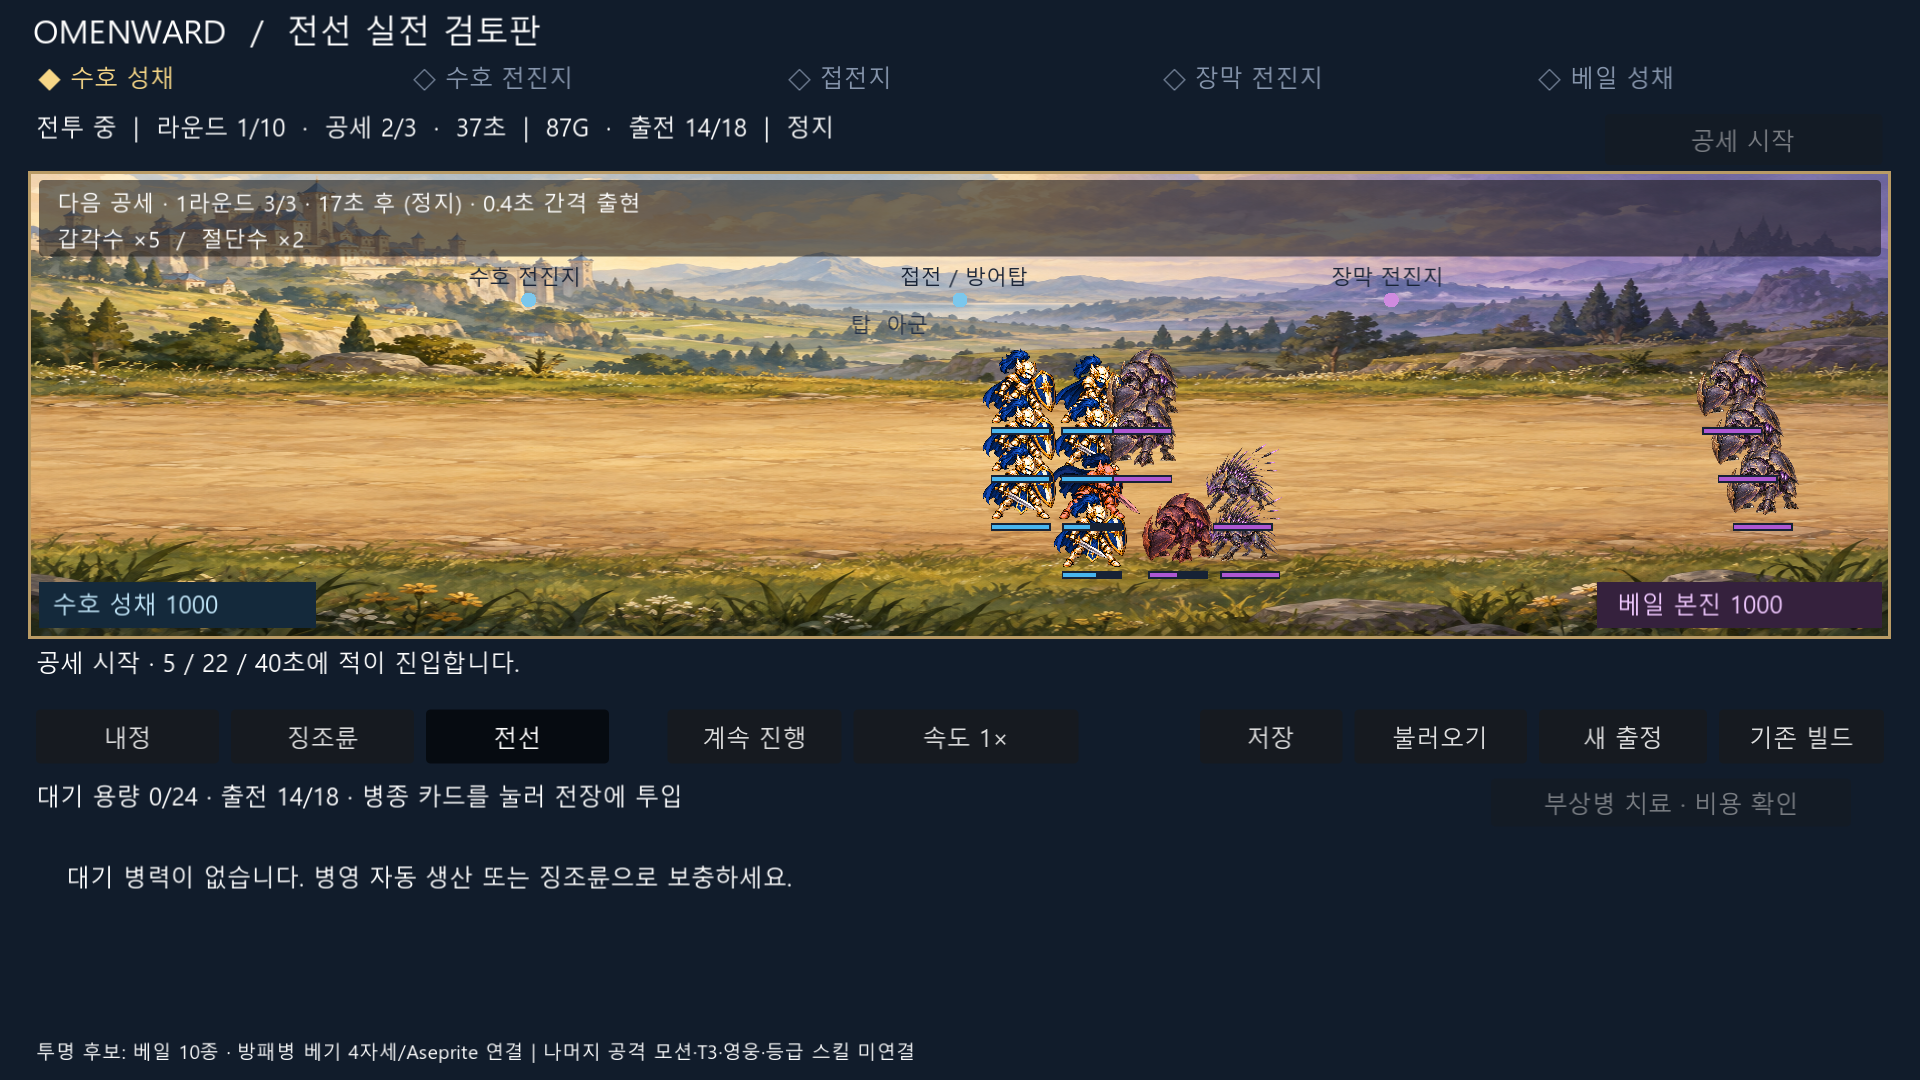
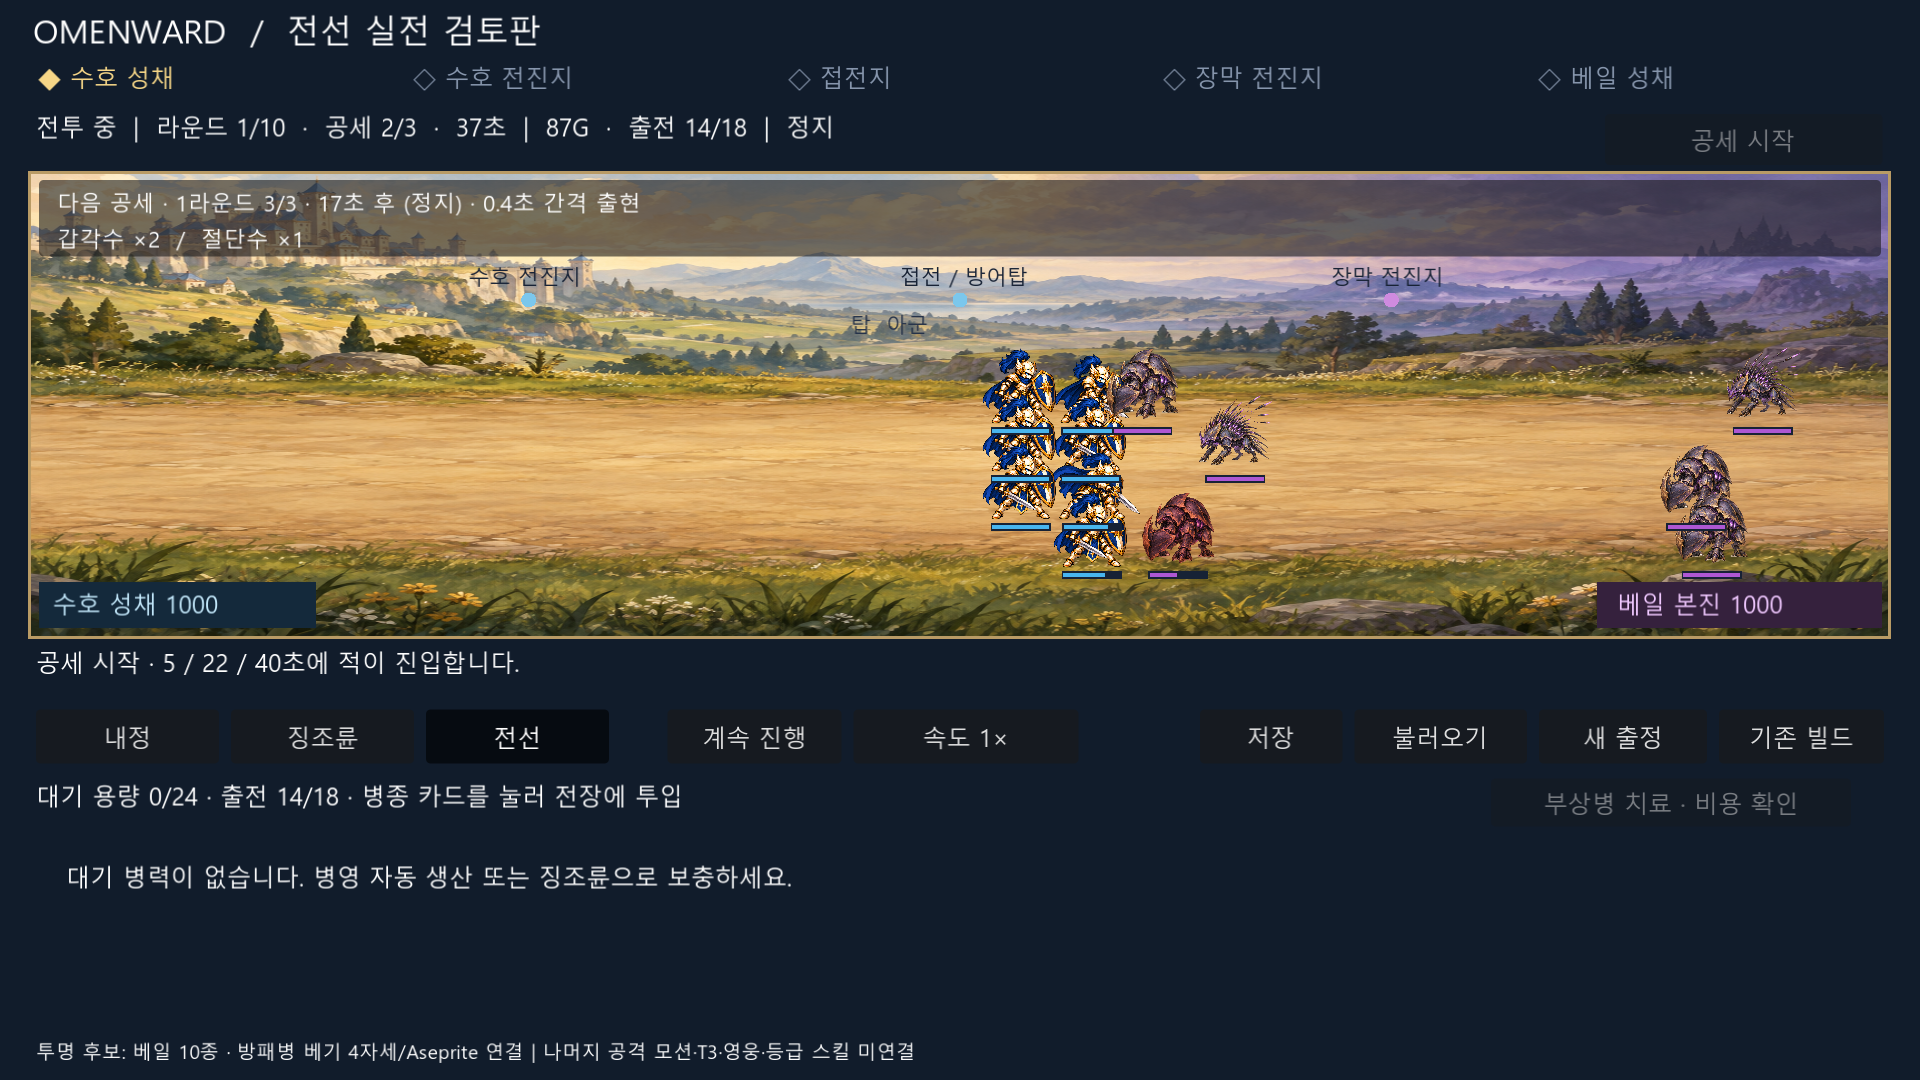
Implement frontline role counters and versioned first-map pressure

Changed region(s): [[0.8438, 0.3056, 0.9375, 0.55], [0.5312, 0.3667, 0.6875, 0.55]]

diff --git a/docs/superpowers/plans/2026-09-11-visible-battle-slice.md b/docs/superpowers/plans/2026-09-11-visible-battle-slice.md
@@ -1,5 +1,19 @@
 # Visible battle and construction implementation plan
 
+## First-map pressure experiment and provisional adoption
+
+After role connections, compare unchanged starting resources across four scripted policies/three seeds, then pressure0.4/0.5/0.6/0.8. Baseline1.0:12 losses. Pressure0.4 paid mobilization:3 seeds win round2 by citadel capture; other6 tested runs lose rounds3–4. Pressure0.5:8 losses. Adopt catalog first map0.4 provisionally, not final balance; other maps unchanged. Persist run pressure with savev4; v1–v3 migrate1.0. Regression covers v3 staggered composition, v4 JSON roundtrip and invalid/missing pressure atomic rejection. Existing PDF predates tune. Cavalry role multiplier currently targets unit combat, not structure damage; siege multiplier remains giant-specific. Five-view independent review corrected partial charge accumulation across interrupted advances; no other blocking findings. Strategic diversity remains unverified.
+
+## Follow-on cavalry / spear counter
+
+Existing blueprint defines cavalry2distance continuous advance then first hit1.5x and spear stationary0.6s halves charge damage. Implement as paired roles, not isolated cavalry buff. Reuse _tick/_hit/unit snapshot; movement accumulates charge capped2 for cavalry, stationary brace capped0.6 for spear, movement clears brace, attack consumes charge. No added manual command/art. Both factions. Optional per-unit charge/brace fields default0 for old saves, strict finite bounded validation before restore. UI keeps base stats plus implemented capability. RED charge versus ordinary target, uncharged normal hit, braced spear50%, unbraced spear normal, real movement/stop/save continuations; GREEN local+GPU+review. Numeric base stats unchanged. AOE official unit-counter benchmark reused, role mechanics from project not copied.
+
+## 2026-09-13 shield role connection
+
+Bounded existing combat completion, user explicitly delegates technical decisions without repeated approvals. Source: Blueprint build input shield row, frontal ranged25% defense stance. Definition: automatic stance when live shield has a live enemy within its melee reach (therefore holds position); forward is +x Ward/-x Veil. Only archer physical shots reduced, not magic/melee/rear attacks. Derived state avoids new save fields, applies to both factions' shield equivalents. No base HP/damage/production tuning.
+
+Benchmark https://www.ageofempires.com/learn-to-play/military-and-economy-aoe2/ differentiates arrow-resistant frontliners from generic HP; ADAPT role-specific counter, REJECT importing its numeric armor system. Alternatives: global shield HP buff (reject blurs weaknesses), always-on ranged reduction (reject removes stance), derived engaged stance (selected fits auto-combat and existing25% spec). REUSE _hit and tooltip; no new art/toolkit. RED frontal25%, rear/magic/unengaged unaffected, symmetry; GREEN model/UI/default/GPU and independent review, then multi-seed policy diagnostics. Existing front_run/front_screen/test scope only.
+
 ## Follow-on: wave data parity
 
 Final109 checks add full-state midwave comparison (absolute1e-9 floating tolerance, exact categorical/RNG strings) and v3 legacy resave. Five-perspective independent static review found no blocker. Exact JSON text initially differed by int/float representation and ~3e-15 timer rounding; no production quantization introduced to hide this. Scope5PASS, project-scoped PASS / Base raw protected-path FAIL retained.

diff --git a/docs/ACTIVE_CONTEXT.md b/docs/ACTIVE_CONTEXT.md
@@ -1,5 +1,9 @@
 # [현행] OMENWARD Active Context
 
+최신 로컬 검증: 모델161검사/0실패, 화면·저장·기본씬 PASS. 아래109/154 등은 이전 검사 이력. 프로젝트 scoped validator PASS, Base raw protected-path FAIL은 승인된8경로 예외로 별도 유지한다. CI/main/Human 상태는 별도 readback 없이는 승격하지 않는다.
+
+2026-09-13 병종 대응/첫 맵 조정: 방패 정면 궁수 피해25% 감소(접전 중), 기병 이동2 후 첫 병력 타격1.5배, 창병 접전 정지0.6초 후 돌격 피해50% 감소를 양 진영에 연결했다. 새 첫 맵 pressure0.4는 임시 플레이테스트 값, v4 저장에 압력을 보존하고 v1–v3는1.0 유지. 1.0의12자동 운영은 모두 패배,0.4 추가 동원 운영은3seed 모두2라운드 본진 점령; 다른6운영은3–4라운드 패배. 최적/장기/Human 밸런스 PASS 아님. GPU14피해/13생존 유닛, 방패3상태 확인. 독립5관점 정적 검토의 부분 돌격 누적 결함 수정, 저장 경계 검사 보강. 기존 PDF는 이번 변경 전 파생물이다. 다음은 전략 편향과 다른 병종의 누락 능력, 전체 아트/5맵 연결이다.
+
 최종 후속 검사109개 PASS: midwave 전체 상태는 JSON 부동소수점1e-9 허용오차 내 일치, legacy profile v3 재저장/재복원까지 확인. 아래107개는 직전 검사 이력. 공세 5관점 독립 정적 검토 차단 결함 없음; 독립 reviewer runtime/Human은 NOT_RUN.
 
 2026-09-13 공세 연결 후속: 새 원정은 공세 cycle의 연속3항목, 라운드3% 증가의 올림 수량,0.4초 순차 출현을 사용한다. 예보/스폰은 wave_composition을 공유한다. v3는 wave_rules를 저장하고 v1/v2 원정은 legacy 출현 유지.107모델/UI/저장/기본 실행 PASS; GPU20damage/15units/방패3상태. 4자동 운영 모두 round2패배; paid_mobilization만 첫 재정비 아군5/적11, 치료2G 사용. 초기 밸런스는 미완료다. 다음은 병종 고유 대응·생산/충원·첫 맵 경제의 누락 대조와 복수 난수 검증이며 단순 HP 증액으로 결과를 덮지 않는다.

diff --git a/docs/design/OMENWARD_HUMAN_BLUEPRINT_REVIEW_20260911.md b/docs/design/OMENWARD_HUMAN_BLUEPRINT_REVIEW_20260911.md
@@ -158,6 +158,8 @@ P4 전 맵: 53라운드/159웨이브 데이터 유효성, 세 운영 편성, 불
 
 공세 데이터 전개: 전체 cycle에서 각 라운드의 세 연속 항목을 사용하고 다음 라운드는 시작 위치를 1칸 이동한다. 각 병종 수는 ceil(기본 수 × 맵 pressure × (1 + 0.03 × (라운드-1)))이다. 같은 웨이브 병력은 0.4초 간격으로 데이터 순서대로 출현한다. 이는 확정 밸런스가 아닌 재현 가능한 초기 fixture다. 적은 아군 해금 제한을 공유하지 않지만 위협 예고와 유효 대응을 제공해야 한다.
 
+2026-09-13 실행 보정: 첫 맵 pressure는 신규 원정 플레이테스트 초깃값0.4로 조정한다. 기존1.0은3난수×4자동운영 전부2~3라운드패배,0.4는 추가동원 운영3난수 모두 본진점령/다른6운영3~4라운드패배였다.0.5/0.6/0.8 표본도 패배. 최적운영/최종재미 승인 아님이며 다른 맵 압력은 이번 미검증으로 유지한다. 저장v4가 원정 압력을 보존하며 이전v1~v3는1.0 유지. 기존 PDF는 이 조정 전 파생본으로 후속 재발행 대상이다.
+
 ## 티어·등급·영웅을 구분하는 계약
 
 일반/특수는 병종 계열, 아군/베일은 진영, T1/T2/T3는 생산 시설의 발전 단계, 일반/숙련/정예는 개체 등급이다. UI에서 ‘일반병종’과 ‘일반 등급’을 같은 필드로 표시하지 않는다. 병종 수는 일반 5+특수 5=10이며 영웅은 별도다. 이전 8병종안에서 빠진 암살자·비행병을 복원한다. 이 분류는 과거 10병종 문서를 비교해 제안했으며 과거 전투 수치/3전선/시대 진행은 계승하지 않는다.

diff --git a/docs/process/APPROVED_REPLAN_UI_MOTION_BUILD_SCOPE_20260911.md b/docs/process/APPROVED_REPLAN_UI_MOTION_BUILD_SCOPE_20260911.md
@@ -1,5 +1,11 @@
 # Approved project-local replan BUILD scope
 
+First-map provisional tuning continuation: existing Blueprint JSON first-map pressure0.4 consumed by front_run; savev4 persists map_pressure, v1–v3 migrate historical1.0. Same approved runtime/test files and existing planning owners; no other-map implementation, Base lock replacement, final balance approval or main write.
+
+Paired cavalry/spear existing ability continuation: movement2 -> firsthit1.5 and stationary0.6 -> charge reduction50%; same runtime/UI/tests, optional unit timers with reject-before-mutation validation. No base stat changes, new art or lock update.
+
+Current continuation connects existing shield25% frontal physical-ranged defense: derived engaged stance, no new resource or save schema, both faction equivalents, same runtime/test/UI consumers. Technical definition and exclusions in existing execution plan.
+
 Same continuation includes existing Blueprint wave-cycle composition, round pressure and0.4s sequential arrivals in front_run with shared forecast. Save v3 wave profile keeps imported v1/v2 runs on legacy instant-wave behavior, avoiding duplicate arrivals or silent old-run difficulty migration. Existing replan test/output scope only.
 
 Exact omen runtime evidence output: `output/front-omen.png` (existing actual observation UI; no new art).

diff --git a/docs/CURRENT_CONFIRMED_DECISIONS.md b/docs/CURRENT_CONFIRMED_DECISIONS.md
@@ -1,5 +1,7 @@
 # OMENWARD · Current Confirmed Decisions
 
+2026-09-13 계속 위임 적용: 반복 승인 없이 기존 기획의 병종 대응과 시험용 첫 맵 조정을 구현한다. pressure0.4는 에이전트 권장 플레이테스트 값이지 사용자 최종 밸런스 확정이 아니다. 기존 저장 압력1.0 보존, 최종 아트/제품 승인 및 Git 보호 경계 유지. 세부 규칙/근거는 현재 Blueprint 입력과 실행 계획이 소유한다.
+
 2026-09-13 최신 사용자 교정: 개선 루프는 유사 장르를 참고해 기획 구체화→시스템 연결→구현·실행 검증으로 게임 전체를 완성하는 반복이다. 국소 UI 수정만으로 축소하지 않는다. 매 단위 구현 전 계획을 먼저 수립한다. 이번은 기존 유료 치료 공식 구현과 실제 자원 운영 비교이며 결과를 다음 우선순위에 반영한다. 기술 선택은 반복 승인 없이 진행하되 핵심 의미 변경·최종 아트 승인·Git 보호 경계는 유지한다.
 
 2026-09-13 사용자: 앞으로 구현/수정 계획을 먼저 수립한 뒤 진행. 직전 전투 가독성 권장 계획을 승인했다. 기존 화면 표시만 개선하고 실제 전투 좌표·사거리·피해·성장 규칙은 유지한다. 향후도 범위/순서/검증 기준을 먼저 제시한다.

diff --git a/docs/OMENWARD_ROADMAP.md b/docs/OMENWARD_ROADMAP.md
@@ -1,5 +1,7 @@
 # [현행] OMENWARD Roadmap
 
+2026-09-13 갱신: 방패·기병·창병 대응 연결, 첫 맵 임시 pressure0.4와 v4 저장 호환 구현. 남은 순서: (1) 추가 동원 이외의 운영 생존성과 누락 병종 능력 대조 (2) 아군 비방패 투명 자산·공격 모션과 겹침 가독성 (3) 5맵 전환/T3/영웅의 명세 대비 소비처 연결 (4) 변경된 사람용 Blueprint 재발행 (5) 보호된 통합·사람 플레이 검증. 첫 맵 3seed 특정 운영 승리만 확인했으며 전체 게임 완료 아님.
+
 공세 데이터 전개까지 연결:107모델 및 화면/저장/GPU 확인. 다음은 아직 미구현인 방패의 원거리 방어·병종별 대응/성장과 초기 생산·충원 경제를 분리 검증한다. 현재4운영 모두2라운드패배로 첫 맵 플레이 가능성 검증은 열려 있다. 5맵/T3/영웅·전 병종 모션/최종 아트·Human 검증은 남아 있다.
 
 2026-09-13 징조륜 관측/조작/확정·가중 대기 용량 연결 및99모델/UI/실행 검증 완료. 다음: 공세 데이터 전개와 현재 반복 동시 스폰의 차이 → 첫 맵 복수 운영/난수와 병종 대응 → 성장/5맵/영웅. 기존 기획 수치는 검증 초깃값이며 자동 패배를 숨기기 위한 임의 수치 조정은 하지 않는다.
